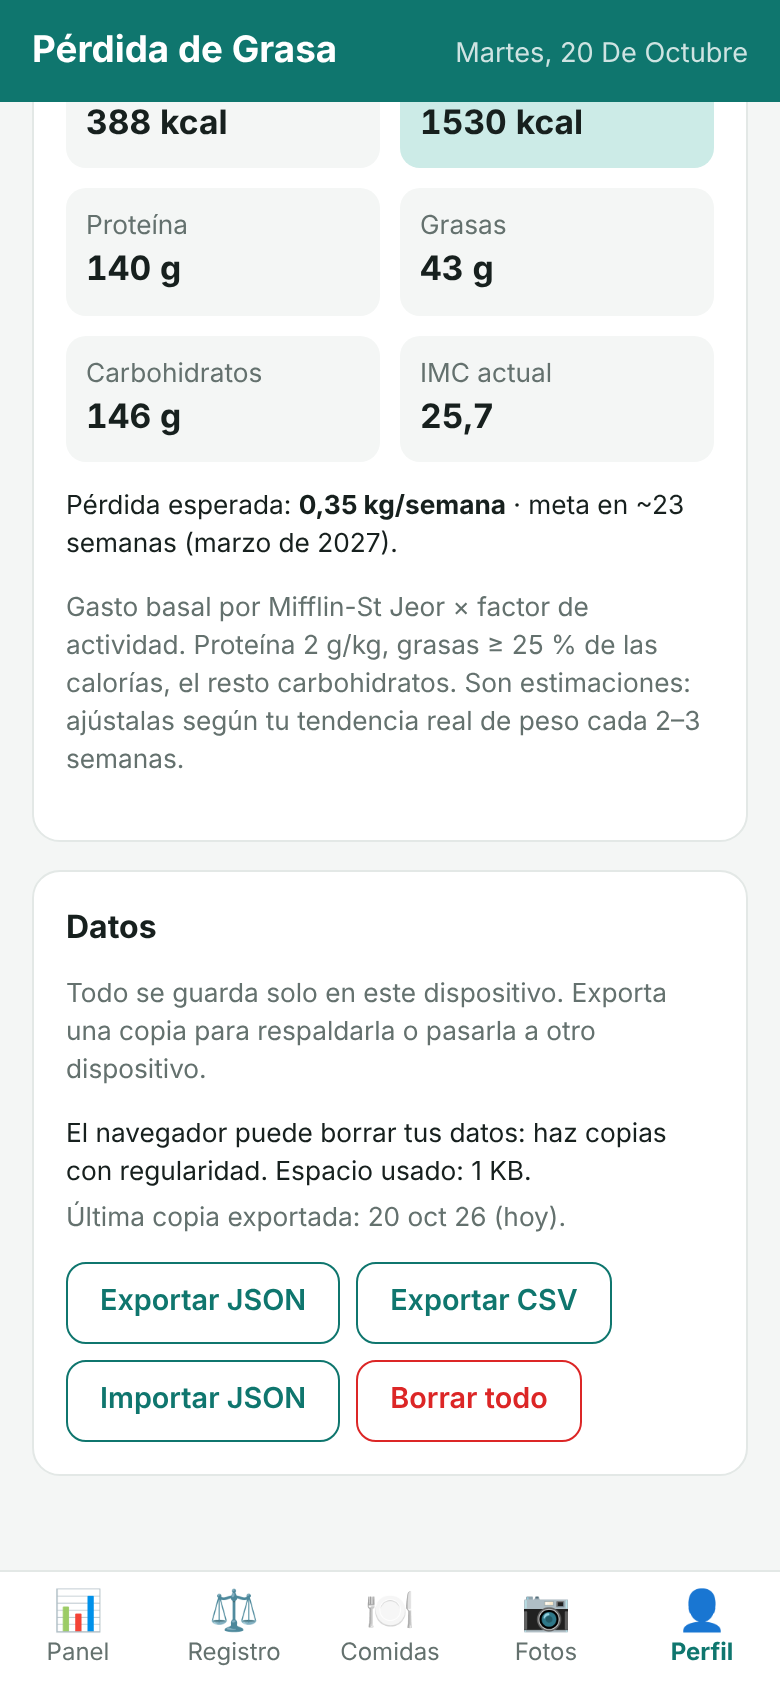
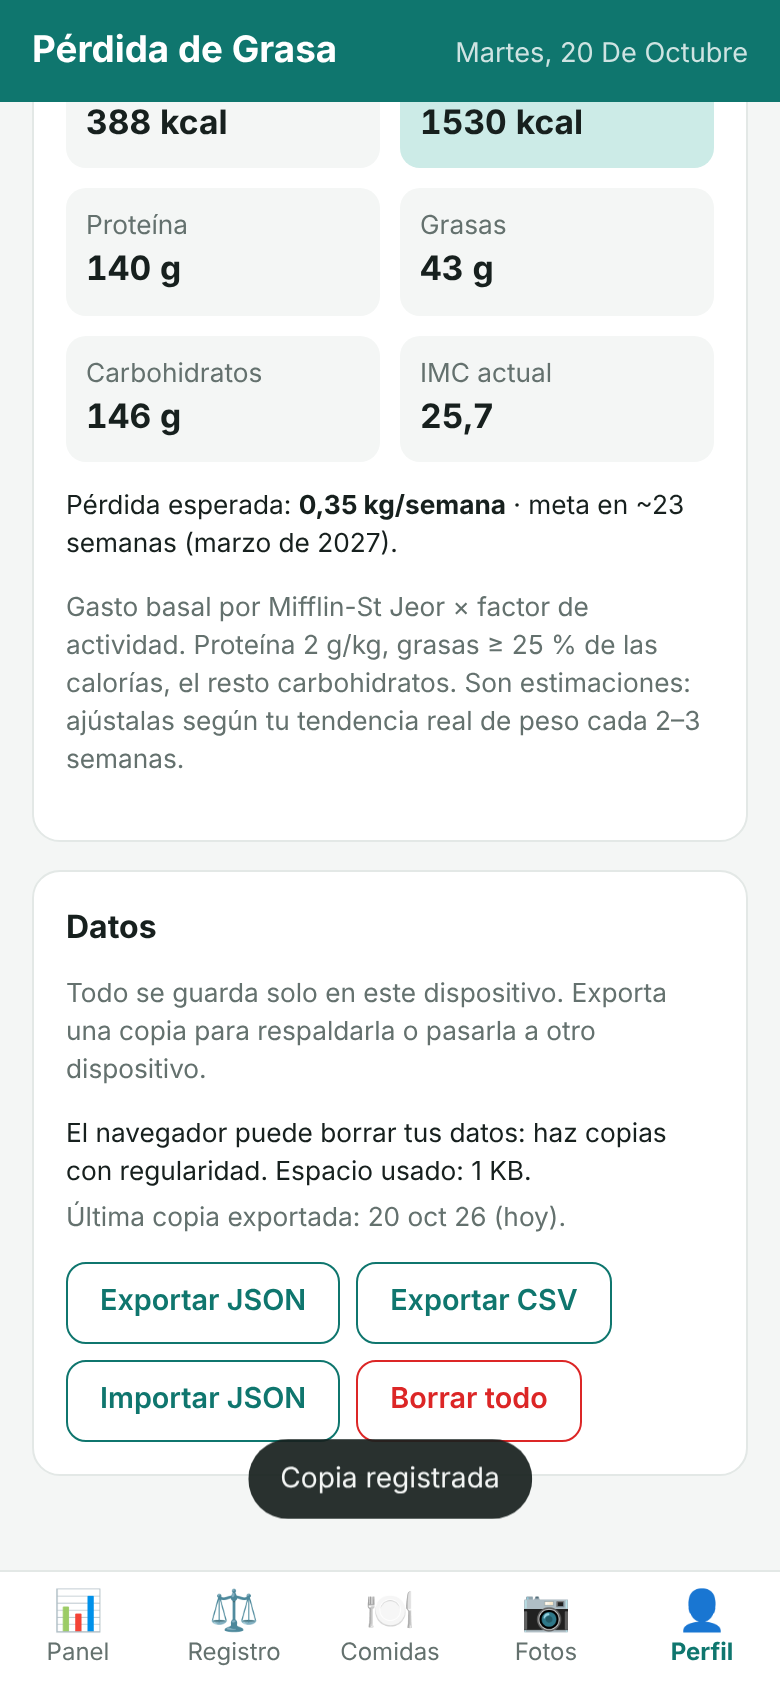
S1-2: corregir defectos de QA (D1-D5) de HU-01
- D1: foco al resumen del panel al ocultar el banner.
- D2: no reescribir la región viva si el texto no cambia.
- D3: recalcular al volver a la app (visibilitychange).
- D4: README con la protección de datos.
- D5: confirmar "¿Se guardó el archivo?" y registrar la copia solo con "Sí".

Claude-Session: https://claude.ai/code/session_0183ndof4GbVc6BsBtnGe3ek

Changed region(s): [[0.3077, 0.8318, 0.6769, 0.9242]]

diff --git a/app.js b/app.js
@@ -661,26 +661,61 @@
     const ago = validLast ? Calc.toDay(today()) - Calc.toDay(validLast) : null;
     const agoText = ago == null ? '' : ago <= 0 ? 'hoy' : ago === 1 ? 'ayer' : `hace ${ago} días`;
 
-    $('#backup-status').textContent = validLast
+    setText($('#backup-status'), validLast
       ? `Última copia exportada: ${fmtDate(validLast)} (${agoText}).`
-      : 'Aún no has exportado ninguna copia.';
-    $('#backup-banner-text').textContent = validLast
+      : 'Aún no has exportado ninguna copia.');
+    // El banner es una región viva: solo se toca si cambia, para que el lector no lo repita.
+    setText($('#backup-banner-text'), validLast
       ? `Tu última copia de seguridad es de ${agoText}. Tus datos solo están en este dispositivo: exporta una copia para no perderlos.`
-      : 'Aún no tienes copia de seguridad. Tus datos solo están en este dispositivo: exporta una copia para no perderlos.';
-    $('#backup-banner-body').classList.toggle('hidden', !due);
+      : 'Aún no tienes copia de seguridad. Tus datos solo están en este dispositivo: exporta una copia para no perderlos.');
+    const body = $('#backup-banner-body');
+    if (body.classList.contains('hidden') === due) body.classList.toggle('hidden', !due);
+  }
+  function setText(el, txt) { if (el.textContent !== txt) el.textContent = txt; }
+
+  // Foco a un lugar estable cuando el elemento enfocado desaparece.
+  function focusSafe(el) {
+    (el && el.offsetParent ? el : $('#panel-summary')).focus();
   }
 
-  // Se registra junto al listener de exportación existente (mismo clic).
-  $('#btn-export').addEventListener('click', () => {
+  // Tras exportar no sabemos si el archivo se guardó (en iOS se puede cancelar):
+  // se pregunta y solo con "Sí" se registra la copia.
+  let confirmReturn = null;
+  $('#btn-export').addEventListener('click', (ev) => {
+    confirmReturn = ev.isTrusted ? ev.currentTarget : $('#btn-backup-now');
+    $('#toast').classList.remove('show');
+    $('#backup-confirm').classList.remove('hidden');
+    $('#btn-backup-yes').focus();
+  });
+  function closeConfirm() {
+    $('#backup-confirm').classList.add('hidden');
+    const back = confirmReturn;
+    confirmReturn = null;
+    return back;
+  }
+  $('#btn-backup-yes').addEventListener('click', () => {
     setPref(LAST_BACKUP_KEY, new Date().toISOString());
     setPref(BACKUP_SNOOZE_KEY, null);
+    const back = closeConfirm();
     renderBackup();
+    focusSafe(back);
+    toast('Copia registrada');
+  });
+  $('#btn-backup-no').addEventListener('click', () => {
+    focusSafe(closeConfirm());
+    toast('Copia no registrada');
   });
   $('#btn-backup-now').addEventListener('click', () => $('#btn-export').click());
   $('#btn-backup-later').addEventListener('click', () => {
     setPref(BACKUP_SNOOZE_KEY, Calc.addDays(today(), SNOOZE_DAYS));
     renderBackup();
+    focusSafe(null);
     toast(`Te lo recordaremos en ${SNOOZE_DAYS} días`);
+  });
+
+  // En iPhone la PWA se reanuda sin recargar: recalcular al volver (cambio de día).
+  document.addEventListener('visibilitychange', () => {
+    if (document.visibilityState === 'visible') render();
   });
 
   async function checkStorage() {

diff --git a/equipo/qa/run-s1-2.js b/equipo/qa/run-s1-2.js
@@ -58,11 +58,24 @@ const log = (n, ok, d = '') => { if (!ok) fails++; console.log((ok ? 'OK   ' : '
   log('Copia hace 8 días: banner', (await banner()) === 1 && (await page.locator('#backup-banner-text').textContent()).includes('hace 8 días'));
 
   // Exportar desde el banner
-  const [dl] = await Promise.all([page.waitForEvent('download'), page.locator('#btn-backup-now').click()]);
+  const confirmOn = () => page.locator('#backup-confirm:not(.hidden)').count();
+  const before = await ls('perdida-grasa:lastBackup');
+  // D5: con "No" no se registra la copia
+  let [dl] = await Promise.all([page.waitForEvent('download'), page.locator('#btn-backup-now').click()]);
   log('"Hacer copia ahora" descarga el JSON', /perdida-grasa-.*\.json$/.test(dl.suggestedFilename()), dl.suggestedFilename());
+  log('Tras exportar se pregunta "¿Se guardó el archivo?" con foco en "Sí"', (await confirmOn()) === 1 && (await page.evaluate(() => document.activeElement.id)) === 'btn-backup-yes');
+  log('Antes de confirmar no se registra la copia', (await ls('perdida-grasa:lastBackup')) === before);
+  await page.locator('#btn-backup-no').click();
+  log('"No": no registra la copia y el banner sigue', (await ls('perdida-grasa:lastBackup')) === before && (await banner()) === 1 && (await confirmOn()) === 0);
+  log('"No": el foco vuelve a "Hacer copia ahora"', (await page.evaluate(() => document.activeElement.id)) === 'btn-backup-now');
+  [dl] = await Promise.all([page.waitForEvent('download'), page.locator('#btn-backup-now').click()]);
+  await page.screenshot({ path: SHOTS + 's1-2-confirmacion.png' });
+  await page.locator('#btn-backup-yes').click();
   const last = await ls('perdida-grasa:lastBackup');
-  log('Exportar actualiza la fecha', last && Date.now() - Date.parse(last) < 60000, last);
-  log('Tras exportar el banner desaparece', (await banner()) === 0);
+  log('"Sí": exportar actualiza la fecha', last && Date.now() - Date.parse(last) < 60000, last);
+  log('Tras confirmar el banner desaparece', (await banner()) === 0);
+  const act = await page.evaluate(() => ({ id: document.activeElement.id, visible: !!document.activeElement.offsetParent }));
+  log('Foco tras ocultar el banner va al resumen del panel', act.id === 'panel-summary' && act.visible, JSON.stringify(act));
 
   await page.locator('.tabbar button[data-view=perfil]').click();
   await page.locator('#backup-status').scrollIntoViewIfNeeded();

diff --git a/index.html b/index.html
@@ -35,7 +35,7 @@
         </div>
       </div>
 
-      <div class="stats">
+      <div class="stats" id="panel-summary" role="group" aria-label="Resumen" tabindex="-1">
         <div class="stat"><span class="stat-label">Peso actual</span><span class="stat-value" id="st-weight">—</span><span class="stat-sub" id="st-weight-sub"></span></div>
         <div class="stat"><span class="stat-label">Perdido</span><span class="stat-value" id="st-lost">—</span><span class="stat-sub" id="st-lost-sub"></span></div>
         <div class="stat"><span class="stat-label">% Grasa</span><span class="stat-value" id="st-bf">—</span><span class="stat-sub" id="st-bf-sub"></span></div>
@@ -270,6 +270,13 @@
     <button role="tab" id="tab-perfil" data-view="perfil"><span aria-hidden="true">👤</span>Perfil</button>
   </nav>
 
+  <div id="backup-confirm" class="backup-confirm hidden" role="group" aria-labelledby="backup-confirm-q">
+    <p id="backup-confirm-q">¿Se guardó el archivo de copia en tu dispositivo?</p>
+    <div class="row-actions">
+      <button type="button" class="btn" id="btn-backup-yes">Sí, se guardó</button>
+      <button type="button" class="btn btn-ghost" id="btn-backup-no">No</button>
+    </div>
+  </div>
   <div id="toast" class="toast" role="status" aria-live="polite"></div>
 
   <dialog id="photo-viewer" class="viewer">

diff --git a/styles.css b/styles.css
@@ -187,6 +187,13 @@ input:focus, select:focus { outline: 2px solid var(--accent); outline-offset: 0;
 .backup-banner p { margin: 0 0 10px; }
 .data-status { list-style: none; padding: 0; margin: 0 0 12px; display: grid; gap: 4px; }
 .data-status .ok::before { content: "✓ "; color: var(--accent); font-weight: 700; }
+.backup-confirm {
+  position: fixed; z-index: 15; left: 16px; right: 16px; bottom: calc(76px + env(safe-area-inset-bottom));
+  max-width: 728px; margin: 0 auto; padding: 12px 14px;
+  background: var(--card); border: 1px solid var(--accent); border-radius: var(--radius);
+  box-shadow: 0 6px 24px rgba(0,0,0,.18);
+}
+.backup-confirm p { margin: 0 0 10px; font-weight: 600; }
 .btn:focus-visible, .file-btn:focus-within { outline: 3px solid var(--goal); outline-offset: 2px; }
 
 @media (max-width: 420px) {

diff --git a/equipo/qa/qa-s1-2.js b/equipo/qa/qa-s1-2.js
@@ -140,6 +140,8 @@ const text = (page) => page.locator('#backup-banner-text').textContent();
     await seed(page);
     const [dl] = await Promise.all([page.waitForEvent('download'), page.locator('#btn-backup-now').click()]);
     log('23:50 local: nombre de archivo con día local', dl.suggestedFilename() === 'perdida-grasa-2026-10-21.json', dl.suggestedFilename());
+    await page.locator('#btn-backup-yes').click(); // D5: la copia se registra al confirmar
+    log('Confirmar "Sí" registra la copia', !!(await page.evaluate(() => localStorage.getItem('perdida-grasa:lastBackup'))));
     await page.clock.fastForward('00:20:00'); // 22 oct 00:10 local
     await page.locator('.tabbar button[data-view=perfil]').click();
     const st = await page.locator('#backup-status').textContent();

diff --git a/equipo/handoffs/2026-10-21-S1-2-fix-frontend-a-qa.md b/equipo/handoffs/2026-10-21-S1-2-fix-frontend-a-qa.md
@@ -1,0 +1,28 @@
+DE: Dev Frontend + UX → PARA: QA (cc: Scrum Master, Dev Backend)
+HISTORIA: S1-2 = HU-01 · corrección de los defectos del veredicto de QA
+
+HECHO:
+- D1: al ocultar el banner, el foco pasa al resumen del panel (`#panel-summary`, `tabindex="-1"`, `role="group"`, "Resumen").
+  "No" en la confirmación devuelve el foco al botón que abrió la exportación.
+- D2: `setText()` solo escribe el texto si cambió, y la clase `hidden` solo se toca si cambia.
+  El E2E de QA da 0 mutaciones en `#backup-banner` tras 4 cambios de pestaña. Se mantiene `role=status`.
+- D3: un listener `visibilitychange` (visible) llama a `render()`, así que el banner, "hace N días" y la fecha del encabezado se recalculan.
+- D4: README → "Protección de datos".
+- D5: al pulsar "Exportar JSON" o "Hacer copia ahora" aparece una barra fija:
+  "¿Se guardó el archivo de copia en tu dispositivo?" con los botones "Sí, se guardó" y "No".
+  - El foco va a "Sí".
+  - Solo con "Sí" se graban `lastBackup` y se borra el aplazamiento; con "No" no cambia nada y el banner sigue.
+  - Al abrir la barra se oculta el toast para que no se solapen.
+- Pruebas:
+  - `npm test`: 9/9 en verde.
+  - `equipo/qa/run-s1-2.js`: 23/23 OK (añade los caminos Sí y No y el foco).
+  - `equipo/qa/qa-s1-2.js`: 30/30 OK (ajustado para D5: pulsa "Sí" tras exportar).
+  - Captura nueva: `equipo/qa-capturas/s1-2-confirmacion.png`.
+- No toqué `save()`, la importación, `photos.js` ni `sw.js`.
+
+PENDIENTE:
+- Observaciones O2–O6 del veredicto sin cambios (no se pidieron). La barra no se cierra con Escape.
+- Si el Backend mueve la exportación fuera del clic en `#btn-export`, debe abrir la confirmación desde allí.
+
+PREGUNTAS:
+- @QA: ¿basta la barra fija no modal (role="group" + foco en "Sí") o preferís un `<dialog>` modal?

diff --git a/README.md b/README.md
@@ -20,6 +20,11 @@ Sin dependencias ni servidor: todos los datos se guardan en el propio dispositiv
 - **Recomendaciones automáticas**: avisa de estancamientos, pérdida demasiado rápida,
   proteína baja, poco sueño o falta de entrenamiento.
 - **Datos**: exportar/importar JSON (respaldo, incluye las fotos) y exportar CSV.
+- **Protección de datos**: al abrir, la app pide al navegador almacenamiento protegido y en
+  Perfil → Datos muestra si lo está, el espacio usado y la fecha de la última copia.
+  Si hay registros y han pasado 7 días o más sin copia, el panel muestra un aviso con
+  "Hacer copia ahora" o "Recordar más tarde" (lo pospone 3 días). Tras exportar, la app pregunta
+  si el archivo se guardó, y solo cuenta la copia si respondes "Sí".
 
 ## Uso
 
